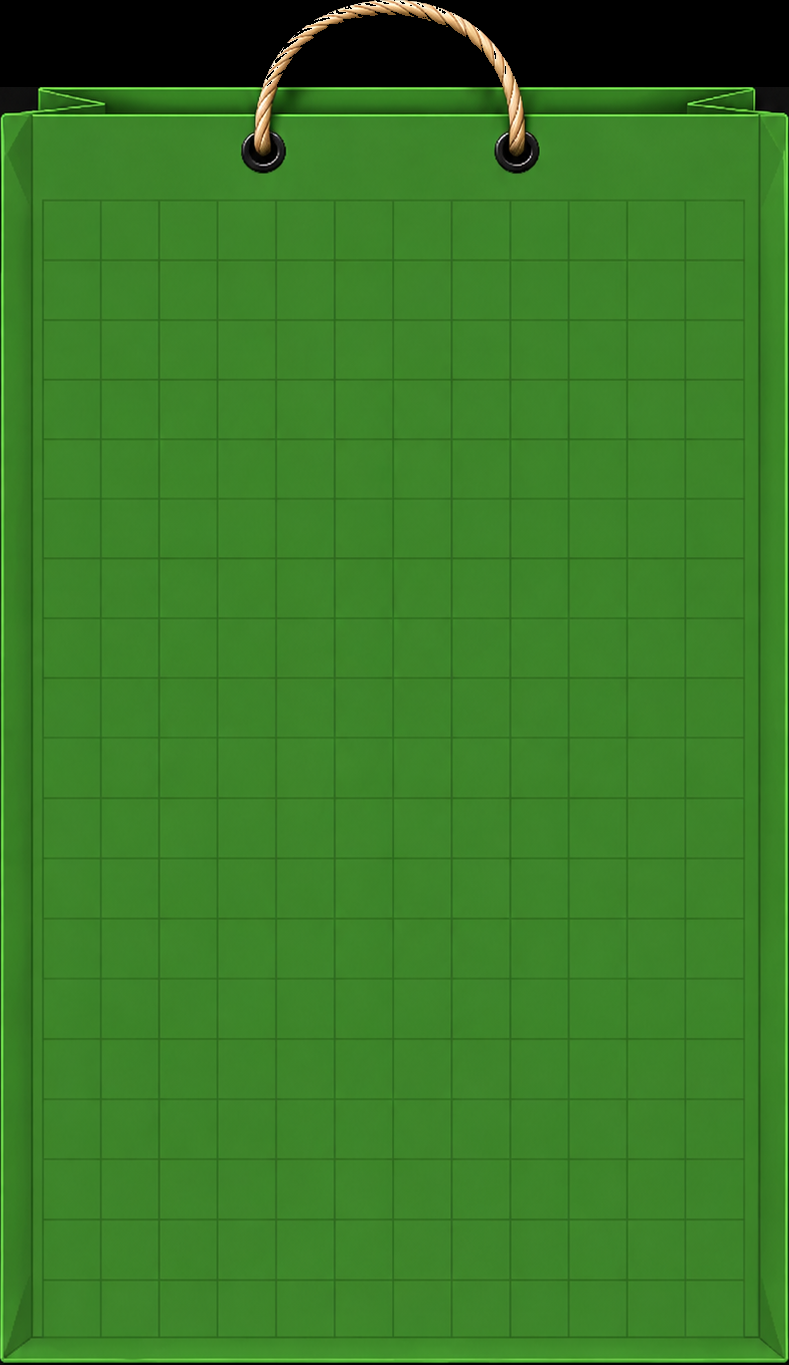
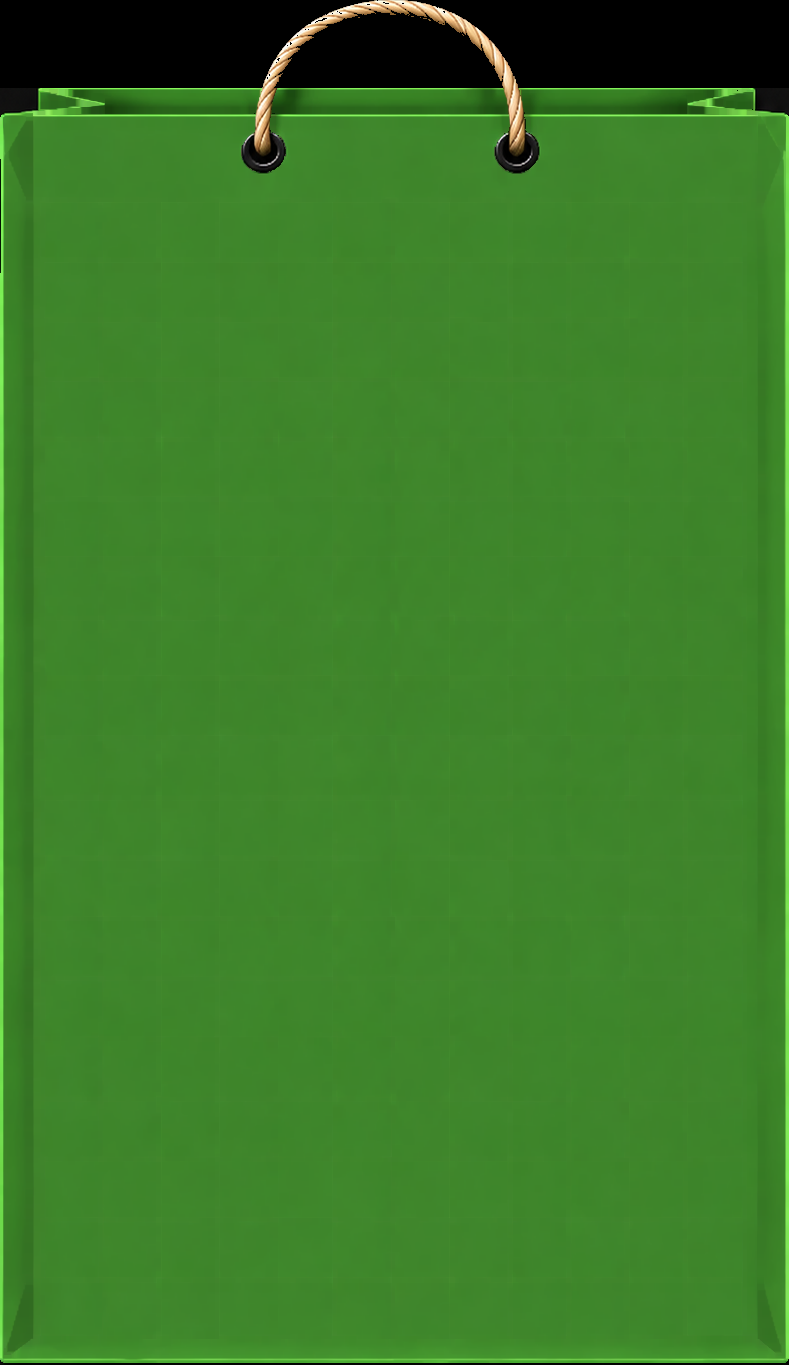
Bag grid aligned to gameplay cells + numbered steps as plain 1./2./3.

diff --git a/index.html b/index.html
@@ -186,7 +186,7 @@
   #howOv .htHint b { color: var(--green); opacity: 1; }
   #howOv .htSteps { list-style: none; margin: 2px 0 0; padding: 0; max-width: 360px; display: flex; flex-direction: column; gap: 13px; text-align: left; }
   #howOv .htSteps li { display: flex; gap: 11px; align-items: flex-start; font-size: 14px; font-weight: 800; line-height: 1.42; color: #000; }
-  #howOv .htSteps .num { flex: 0 0 26px; width: 26px; height: 26px; border-radius: 50%; background: #fff; color: #000; font-size: 13px; font-weight: 900; display: flex; align-items: center; justify-content: center; box-shadow: 0 0 0 3px rgba(0,0,0,.12); }
+  #howOv .htSteps .num { flex: 0 0 18px; color: #000; font-size: 15px; font-weight: 900; line-height: 1.42; }
   #howOv .htSteps b { color: #000; }
   #howOv .htActions { display: flex; gap: 12px; align-items: center; margin-top: 2px; }
   #howClose {
@@ -246,9 +246,9 @@
       <div id="demoCap">Drop food into the bag</div>
     </div>
     <ol class="htSteps">
-      <li><span class="num">1</span><span>Stack the perfect <b>Uber Eats</b> delivery bag to earn points! The more items you stack, the more points you earn!</span></li>
-      <li><span class="num">2</span><span>Slide &amp; rotate each item, then drop it. Pack <b>tight with no gaps</b> — the fuller the bag, the more points.</span></li>
-      <li><span class="num">3</span><span>Fill it up = more points!</span></li>
+      <li><span class="num">1.</span><span>Stack the perfect <b>Uber Eats</b> delivery bag to earn points! The more items you stack, the more points you earn!</span></li>
+      <li><span class="num">2.</span><span>Slide &amp; rotate each item, then drop it. Pack <b>tight with no gaps</b> — the fuller the bag, the more points.</span></li>
+      <li><span class="num">3.</span><span>Fill it up = more points!</span></li>
     </ol>
     <div class="htActions">
       <button class="cta" id="howPlay" style="margin-top:0">Play ▶</button>
@@ -339,7 +339,7 @@
       const img = await loadImage(SPRITE_SRC[key]);
       SPRITES[key] = { rots: makeRotations(img) };
     }
-    try { bagImg = await loadImage("assets/bagfield.png?v=2"); } catch (e) { bagImg = null; }
+    try { bagImg = await loadImage("assets/bagfield.png?v=3"); } catch (e) { bagImg = null; }
   }
 
   function rotateMatrix(m) { // 90° clockwise
@@ -683,7 +683,19 @@
   }
   function drawBagField(ctx, W, H, cell, cols, rows) {
     ctx.clearRect(0, 0, W, H);
-    if (bagImg) { ctx.drawImage(bagImg, 0, 0, W, H); return; }   // real Uber-bag art (uber bag tetris 2)
+    if (bagImg) {
+      ctx.drawImage(bagImg, 0, 0, W, H);   // real Uber-bag art (uber bag tetris 2)
+      // grid lines aligned to the gameplay cells so the bag grid matches where pieces snap
+      ctx.save();
+      ctx.lineWidth = Math.max(1, cell * 0.05);
+      ctx.strokeStyle = "rgba(0,0,0,.12)";
+      ctx.beginPath();
+      for (let x = 1; x < cols; x++) { ctx.moveTo(x * cell, 0); ctx.lineTo(x * cell, H); }
+      for (let y = 1; y < rows; y++) { ctx.moveTo(0, y * cell); ctx.lineTo(W, y * cell); }
+      ctx.stroke();
+      ctx.restore();
+      return;
+    }
     const quad = (pts, col) => { ctx.fillStyle = col; ctx.beginPath(); ctx.moveTo(pts[0], pts[1]);
       for (let i = 2; i < pts.length; i += 2) ctx.lineTo(pts[i], pts[i+1]); ctx.closePath(); ctx.fill(); };
     // 1) front face base
